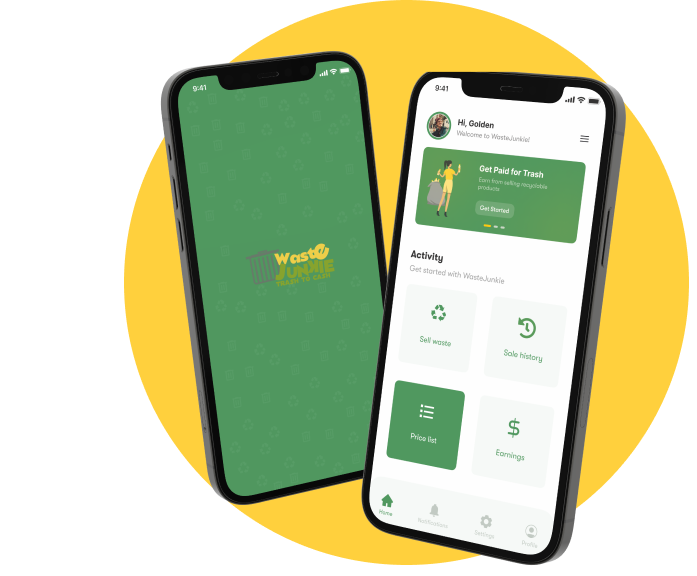
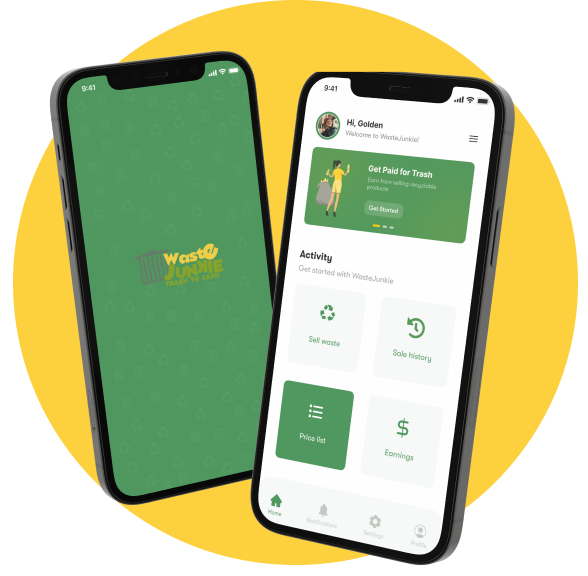
Modified Style Sheet

diff --git a/style.css b/style.css
@@ -7,20 +7,20 @@
 
 nav {
   width: 100%;
-  margin: auto;
-  height: 20vh;
+  margin-bottom: 2rem;
 }
 
 .navbar {
   width: 80%;
   margin: auto;
   display: flex;
+  justify-content: space-between;
+  align-items: baseline;
   /* background-color: aqua; */
 }
 
 .navbar .logo {
   width: 13%;
-  margin-right: 600px;
 }
 
 .navbar .logo img {
@@ -50,7 +50,6 @@ nav {
 
 .menubar {
   background-color: #468d55;
-  height: 270px;
   display: none;
   flex-direction: column;
   text-align: center;
@@ -91,19 +90,19 @@ nav {
   font-size: 30px;
   color: #468d55;
 }
+
+
+/* BODY DESKTOP */
 .body {
   width: 100%;
-  margin: auto;
   display: flex;
-  height: 70vh;
+ 
 }
-
 .wrap {
   width: 80%;
   margin: auto;
   display: flex;
   gap: 5px;
-  height: 60vh;
 }
 
 .first {
@@ -147,22 +146,25 @@ span {
 .second {
   width: 50%;
   margin: auto;
+  display: flex;
+  justify-content: center;
 }
 
 .second img {
-  width: 100%;
-  margin: auto;
+  width: 90%;
 }
 
 /* media query */
 @media screen and (max-width: 1000px) {
   .navbar {
-    width: 100%;
-    margin-top: 10px;
+    width: 90%;
+    padding-top: 10px;
+    justify-content: space-between;
+    
   }
   .navbar .logo {
     width: 30%;
-    margin-right: 120px;
+    margin-top: 10px;
   }
 
   .social ul li {
@@ -171,19 +173,23 @@ span {
 
   .menubar {
     display: none;
+    padding: 30px 0;
   }
   #menu {
     display: block;
-    margin-top: -20px;
-    margin-left: 90px;
     font-size: 30px;
+    color: #468d55;
+    position: absolute;
+    top: 30px;
+    right: 20px;
   }
   #close {
     display: none;
-    margin-top: -20px;
-    margin-left: 90px;
-    font-size: 30px;
+    font-size: 35px;
+    color: #468d55;
     position: absolute;
+    top: 25px;
+    right: 20px;
   }
 
   #active {
@@ -195,7 +201,6 @@ span {
 
   .wrap {
     flex-direction: column-reverse;
-    margin-top: 70px;
     width: 90%;
   }
 
@@ -212,15 +217,19 @@ span {
 
   .second {
     width: 100%;
-    /* background-color: #FFC100; */
+    display: flex;
+    justify-content: center;
   }
 
   .second img {
-    width: 60%;
-    margin-left: 60px;
+    width: 70%;
   }
 
   #input {
     padding: 10px 30px;
+  }
+
+  .body{
+    margin-bottom: 80px;
   }
 }

diff --git a/index.html b/index.html
@@ -10,38 +10,38 @@
 </head>
 <body>
   <nav>
-   <div class="navbar">
-<div class="logo">
-  <img src="./logo.jpg" alt="LOGO">
-</div>
+    <div class="navbar">
+      <div class="logo">
+        <img src="./logo.jpg" alt="LOGO">
+      </div>
 
-<div class="social">
-  <ul>
-    <li><a href="#"><i class="fa-brands fa-facebook"></i></a></li>
-    <li><a href="#"><i class="fa-brands fa-instagram"></i></a></li>
-    <li><a href="#"><i class="fa-brands fa-twitter"></i></a></li>
-    <li><a href="#" id="active">SUBSCRIBE</a></li>
+      <div class="social">
+        <ul>
+          <li><a href="#"><i class="fa-brands fa-facebook"></i></a></li>
+          <li><a href="#"><i class="fa-brands fa-instagram"></i></a></li>
+          <li><a href="#"><i class="fa-brands fa-twitter"></i></a></li>
+          <li><a href="#" id="active">SUBSCRIBE</a></li>
 
-<div id="menu">
-  <i class="fa-solid fa-bars"></i>
-</div>
-<div id="close">
-  <i class="fa-solid fa-xmark"></i>
-</div>
-    
-  </ul>
-</div>
-</div>
+          <div id="menu">
+            <i class="fa-solid fa-bars"></i>
+          </div>
+          <div id="close">
+            <i class="fa-solid fa-xmark"></i>
+          </div>
+          
+        </ul>
+      </div>
+    </div>
 
-<div class="menubar" id="menuBar">
-  <h3>Kindly follow us</h3>
-  <ul>
-    <li><a href="#">FACEBOOK</a></li>
-    <li><a href="#">INSTAGRAM</a></li>
-    <li><a href="#">TWITTER</a></li>
-    <li><a href="#" id="activ">SUBSCRIBE TO EARN</a></li>
+    <div class="menubar" id="menuBar">
+      <h3>Kindly follow us</h3>
+      <ul>
+        <li><a href="#">FACEBOOK</a></li>
+        <li><a href="#">INSTAGRAM</a></li>
+        <li><a href="#">TWITTER</a></li>
+        <li><a href="#" id="activ">SUBSCRIBE TO EARN</a></li>
 
-</div>
+    </div>
 
   </nav>
 
@@ -63,10 +63,9 @@
       </div>
   
       <div class="second">
-  <img src="./phonie.png" alt="">
+        <img src="./phonie-removebg-preview.png" alt="">
       </div>
     </div>
-    
   </div>
 
   <footer>
